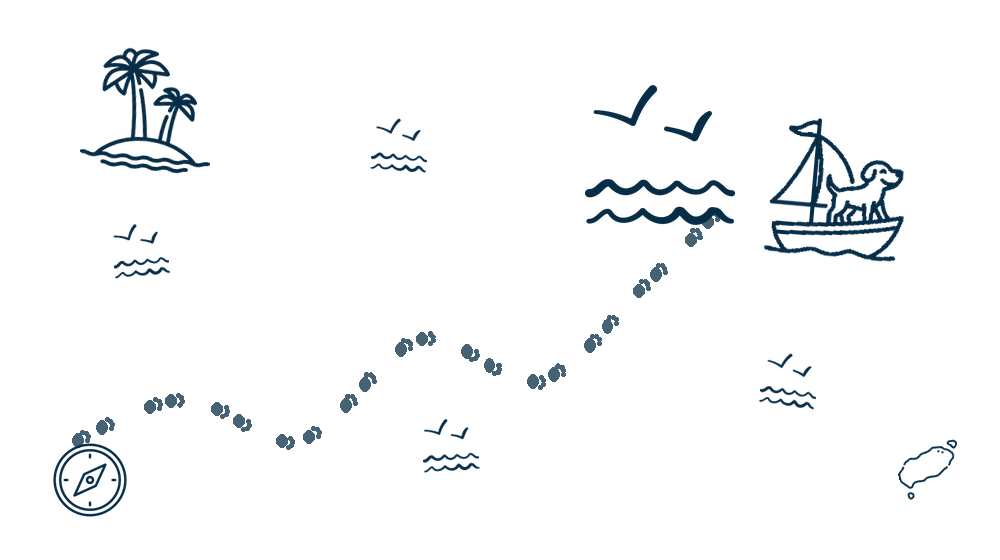
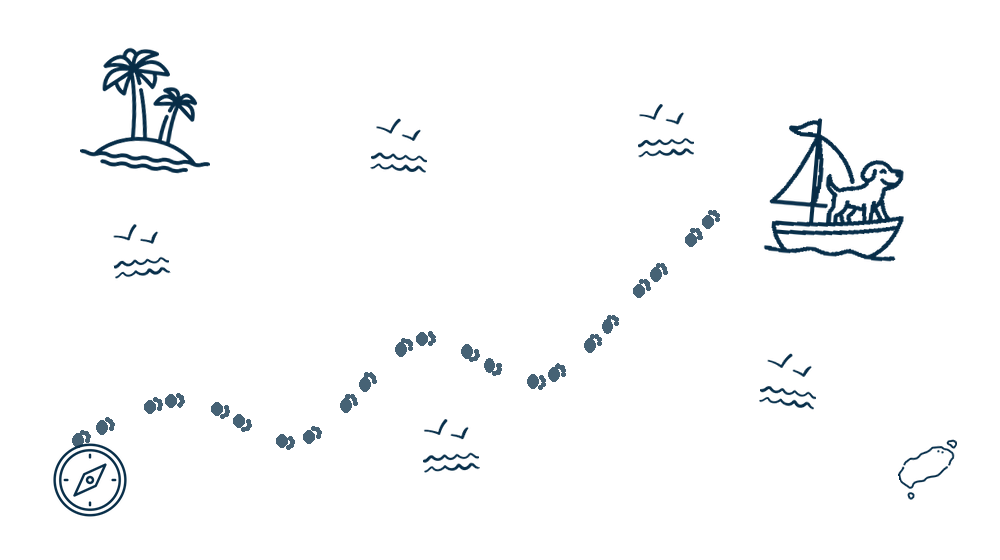
change de fou malade

Changed region(s): [[0.589, 0.1518, 0.744, 0.425]]

diff --git a/css/styles.css b/css/styles.css
@@ -1,4 +1,4 @@
-@import url('https://fonts.googleapis.com/css2?family=Josefin+Sans:ital,wght@0,100..700;1,100..700&display=swap');
+@import url('https://fonts.googleapis.com/css2?family=Josefin+Sans:ital,wght@0,100..700;1,100..700&family=Caveat:wght@500;700&display=swap');
 
 /* =============================================
    VARIABLES
@@ -20,6 +20,7 @@
   --c-light2:     #70a8c9;
 
   --font: 'Futura', 'Josefin Sans', 'Century Gothic', 'Trebuchet MS', sans-serif;
+  --font-hand: 'Caveat', cursive;
 
   --nav-h:       68px;
   --radius:      14px;
@@ -324,11 +325,11 @@ input, textarea, select { font-family: var(--font); }
 }
 .hero-title span {
   display: block;
-  font-size: clamp(1.05rem, 2.4vw, 1.6rem);
+  font-family: var(--font-hand);
+  font-size: clamp(1.4rem, 3.4vw, 2.1rem);
   font-weight: 500;
-  font-style: italic;
   letter-spacing: 0.01em;
-  margin-top: 0.6rem;
+  margin-top: 0.4rem;
   color: var(--c-secondary);
 }
 .hero-subtitle {
@@ -423,9 +424,9 @@ input, textarea, select { font-family: var(--font); }
   align-items: center;
   justify-content: center;
   margin-bottom: 1.25rem;
-  transition: background var(--transition);
+  transition: background var(--transition), transform var(--transition);
 }
-.service-card:hover .service-icon { background: var(--c-primary); }
+.service-card:hover .service-icon { background: var(--c-primary); transform: rotate(-6deg) scale(1.08); }
 .service-icon svg {
   width: 30px; height: 30px;
   color: var(--c-primary);
@@ -718,6 +719,16 @@ body.modal-open { overflow: hidden; }
   overflow: hidden;
   line-height: 0;
 }
+.wave-boat {
+  position: absolute;
+  left: 76%;
+  bottom: 8px;
+  width: 170px;
+  height: auto;
+  filter: brightness(0) invert(1);
+  opacity: 0.92;
+  pointer-events: none;
+}
 
 /* =============================================
    LEGAL PAGE
@@ -794,6 +805,14 @@ body.modal-open { overflow: hidden; }
   .about-photo-col { position: static; }
 }
 .about-photo-col .btn { align-self: flex-start; }
+.handwritten-note {
+  font-family: var(--font-hand);
+  font-size: 1.5rem;
+  line-height: 1.35;
+  color: var(--c-primary);
+  transform: rotate(-1.5deg);
+  margin: -0.5rem 0.5rem 0;
+}
 .about-img-wrap {
   border-radius: var(--radius);
   overflow: hidden;
@@ -801,6 +820,8 @@ body.modal-open { overflow: hidden; }
   background: linear-gradient(145deg, var(--c-primary), var(--c-navy));
   box-shadow: var(--shadow-lg);
 }
+.about-img-wrap img { transition: transform 0.5s ease; }
+.about-img-wrap:hover img { transform: scale(1.05); }
 .about-text p { color: var(--c-blue-dark); margin-bottom: 1.2rem; font-size: 0.9rem; }
 .about-highlights {
   display: grid;
@@ -840,6 +861,18 @@ body.modal-open { overflow: hidden; }
   text-align: center;
   box-shadow: 0 2px 16px rgba(9, 55, 92, 0.08);
   transition: transform var(--transition), box-shadow var(--transition);
+  position: relative;
+  overflow: hidden;
+}
+.value-paw {
+  position: absolute;
+  top: 10px;
+  right: 10px;
+  width: 30px;
+  height: auto;
+  fill: var(--c-light-blue);
+  transform: rotate(20deg);
+  pointer-events: none;
 }
 .value-card:hover {
   transform: translateY(-5px);
@@ -853,8 +886,26 @@ body.modal-open { overflow: hidden; }
   align-items: center;
   justify-content: center;
   margin: 0 auto 1.1rem;
+  transition: transform var(--transition), background var(--transition);
 }
-.value-icon svg { width: 28px; height: 28px; color: var(--c-primary); }
+.value-card:hover .value-icon { transform: rotate(-8deg) scale(1.1); background: var(--c-primary); }
+.value-icon svg { width: 28px; height: 28px; color: var(--c-primary); transition: color var(--transition); }
+.value-card:hover .value-icon svg { color: var(--c-secondary); }
+.icon-heart {
+  transform-box: fill-box;
+  transform-origin: center;
+}
+.value-card:hover .icon-heart {
+  fill: currentColor;
+  animation: heartbeat 0.9s ease-in-out;
+}
+@keyframes heartbeat {
+  0%, 100% { transform: scale(1); }
+  25% { transform: scale(1.25); }
+  40% { transform: scale(0.95); }
+  60% { transform: scale(1.18); }
+  80% { transform: scale(1); }
+}
 .value-card h3 {
   font-size: 1rem;
   font-weight: 700;

diff --git a/apropos.html b/apropos.html
@@ -81,6 +81,8 @@
             <img src="img/jddphotopp.jpg" alt="Jean-David Debras avec un de ses chiens" style="width:100%;height:100%;object-fit:cover;object-position:center 40%">
           </div>
 
+          <p class="handwritten-note">Chaque chien mérite qu'on prenne le temps de le comprendre.<br>— Jean-David &amp; Thémis</p>
+
           <div class="about-highlights">
             <div class="highlight-item">
               <svg viewBox="0 0 24 24" fill="none" stroke="currentColor" stroke-width="2" aria-hidden="true"><polyline points="20 6 9 17 4 12"/></svg>
@@ -134,8 +136,15 @@
       <div class="values-grid">
 
         <article class="value-card fade-in">
+          <svg class="value-paw" viewBox="0 0 40 36" aria-hidden="true">
+            <ellipse cx="20" cy="24" rx="10" ry="9"/>
+            <ellipse cx="6" cy="14" rx="4.4" ry="5.4"/>
+            <ellipse cx="15" cy="6" rx="4.2" ry="5.2"/>
+            <ellipse cx="26" cy="6" rx="4.2" ry="5.2"/>
+            <ellipse cx="35" cy="14" rx="4.4" ry="5.4"/>
+          </svg>
           <div class="value-icon">
-            <svg viewBox="0 0 24 24" fill="none" stroke="currentColor" stroke-width="1.8" aria-hidden="true">
+            <svg class="icon-heart" viewBox="0 0 24 24" fill="none" stroke="currentColor" stroke-width="1.8" aria-hidden="true">
               <path d="M20.84 4.61a5.5 5.5 0 0 0-7.78 0L12 5.67l-1.06-1.06a5.5 5.5 0 0 0-7.78 7.78l1.06 1.06L12 21.23l7.78-7.78 1.06-1.06a5.5 5.5 0 0 0 0-7.78z"/>
             </svg>
           </div>

diff --git a/index.html b/index.html
@@ -141,7 +141,7 @@
       <div class="services-header text-center fade-in">
         <p class="section-label">Ce que je propose</p>
         <h2 class="section-title">Des programmes adaptés<br>à chaque chien</h2>
-        <p class="section-sub">Des séances pensées pour vous et votre compagnon, basées sur le respect mutuel et la bienveillance. Cliquez sur un programme pour en voir le détail.</p>
+        <p class="section-sub">Des séances pensées pour vous et votre compagnon, basées sur le respect mutuel et la bienveillance. Curieux d'un programme ? Cliquez dessus pour en savoir plus.</p>
       </div>
       <div class="services-grid">
                 <!-- Bilan comportementaliste -->
@@ -370,7 +370,7 @@
   <section class="cta-band">
     <div class="container">
       <h2 class="fade-in">Prêt à commencer l'aventure ?</h2>
-      <p class="fade-in delay-1">Prenez contact pour un premier échange gratuit. Ensemble, nous définirons le programme le mieux adapté à votre chien.</p>
+      <p class="fade-in delay-1">Racontez-moi où vous en êtes avec votre chien — on regarde ensemble ce qui peut vous aider. Premier échange gratuit, sans engagement.</p>
       <a href="contact.html" class="btn btn-primary fade-in delay-2">Contactez-moi</a>
     </div>
   </section>

diff --git a/tarifs.html b/tarifs.html
@@ -68,6 +68,7 @@
         </div>
       </div>
     </div>
+    <img class="wave-boat" src="img/mer/chien_bateau.png" alt="" aria-hidden="true">
   </header>
 
   <!-- ═══════════════ FORMULES ═══════════════ -->
